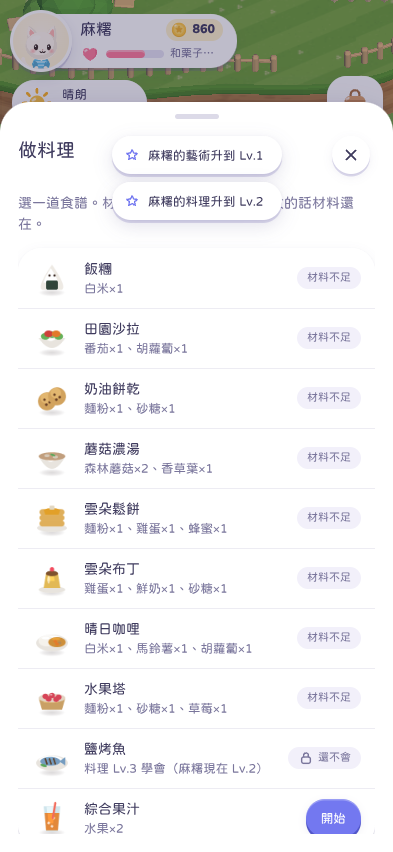
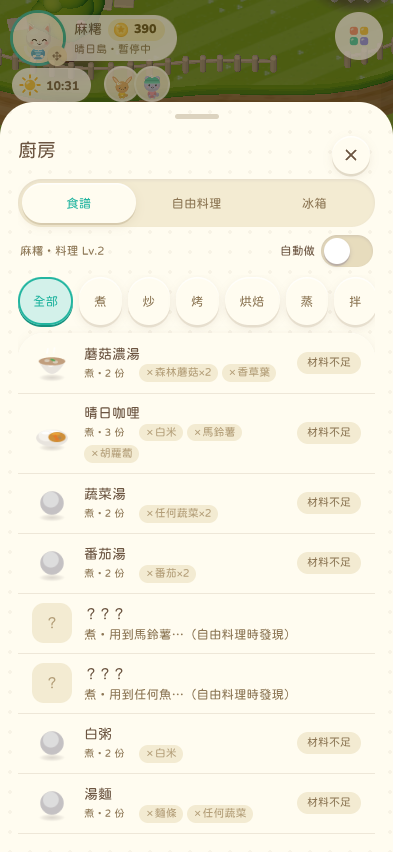
16.5: fix day-summary crash on lazily registered social kinds, recipe level hint, regression fixes, report, APK
Claude-Session: https://claude.ai/code/session_01PAZxUZ1nduqVoNWZ69f7R7

diff --git a/game/tests/life/run.js b/game/tests/life/run.js
@@ -91,6 +91,12 @@ const setHour = (page, h) => page.evaluate((hh) => { const c = OC.Store.s.life.c
       await page.evaluate(([a, b]) => { for (const id of [a, b]) { const br = OC.Brain.get(id); if (br.st === 'social') OC.Brain.Social.end(br.conv || OC.Brain.convs.find((x) => x.a === br || x.b === br), 't'); if (br.st === 'do' || br.st === 'go') OC.Brain.abort(br, 'test'); br.st = 'think'; br.thinkAt = 1e9; } OC.Chars.get(b).personality.social = 90; OC.Brain.Social.start(OC.Brain.get(a), OC.Brain.get(b), 'chat'); }, [A, B]);
       const startDiag = await page.evaluate(([a, b]) => [a, b].map((id) => { const x = OC.Brain.get(id); return `${OC.Chars.name(OC.Chars.get(id))}:st=${x.st} holds=${[...x.holds]} q=${x.queued} lv=${!!x.leaving} inv=${!!x.invited} bp=${!!x.byPlayer} conv=${OC.Brain.convs.length}`; }).join(' ; '), [A, B]);
       const talked = await until(page, ([a]) => !OC.Brain.convs.some((c) => c.a.id === a), [A], 40000);
+      /* 16.5: the answer to an invitation is a seeded roll (Will) — a "no" is a valid outcome, so ask again (up to 5 times) instead of depending on how many random draws came before */
+      for (let t = 0; t < 4; t++) {
+        const ok = await page.evaluate(([a, b, f0]) => OC.Mind.rel(a, b).fam > f0, [A, B, pre.r.fam]); if (ok) break;
+        await page.evaluate(([a, b]) => { for (const id of [a, b]) { const br = OC.Brain.get(id); if (br.st === 'social') OC.Brain.Social.end(br.conv || OC.Brain.convs.find((x) => x.a === br || x.b === br), 't'); if (br.st === 'do' || br.st === 'go') OC.Brain.abort(br, 'test'); br.st = 'think'; br.thinkAt = 1e9; } OC.Chars.get(a).life.laterWith = {}; OC.Brain.Social.start(OC.Brain.get(a), OC.Brain.get(b), 'chat'); }, [A, B]);
+        await until(page, ([a]) => !OC.Brain.convs.some((c) => c.a.id === a), [A], 40000);
+      }
       const post = await page.evaluate(([a, b]) => ({ r: OC.Mind.rel(a, b), rb: OC.Mind.rel(b, a), ma: OC.Mind.memories(OC.Chars.get(a), { who: b }).map((m) => m.text), mb: OC.Mind.memories(OC.Chars.get(b), { who: a }).map((m) => m.text) }), [A, B]);
       check('3a 兩個 OC 相遇並聊天（輪流說話、面對面）', talked && post.r.fam > pre.r.fam, `fam ${pre.r.fam} → ${post.r.fam}` + (post.r.fam > pre.r.fam ? '' : ' ｜ ' + startDiag + ' ｜ ' + await page.evaluate(([a, b]) => OC.Brain.log.filter((l) => l.who === a || l.who === b).slice(0, 10).map((l) => OC.Chars.name(OC.Chars.get(l.who)) + ':' + l.text).join(' / '), [A, B])));
       check('3b 雙方都留下共同回憶', post.ma.length > 0 && post.mb.length > 0, { a: post.ma.slice(0, 2), b: post.mb.slice(0, 2) });

diff --git a/game/tests/v16/run.js b/game/tests/v16/run.js
@@ -455,7 +455,7 @@ const BIG = `(async () => { const cv = document.createElement('canvas'); cv.widt
         const c = OC.Chars.get(id); c.needs.food = 97; Q.add(id, 'eat'); await sleep(1500); const ref = Q.list(id)[0]; out.refused = ref && ref.state + ':' + ref.why;
         Q.add(id, 'stretch'); const seen = new Set(); for (let i = 0; i < 40; i++) { for (const x of Q.list(id)) seen.add(x.act + ':' + x.state); const b0 = OC.Brain.get(id); if (b0.act === 'stretch') seen.add('stretch:' + b0.st); await sleep(100); } out.notBlocked = [...seen];
         Q.clear(id); Q.cancel(id, -1); OC.Chars.get(id).life.q16 = []; await sleep(300);
-        c.needs.food = 97; Q.add(id, 'eat'); await sleep(1200); const rf = Q.list(id).find((x) => x.state === 'refused'); out.forced = rf ? Q.force(id, rf.n) : false; await sleep(2500); const b = OC.Brain.get(id); out.forcedAct = b.act + ':' + b.st;
+        c.needs.food = 97; Q.add(id, 'eat'); let rf = null; for (let i = 0; i < 40 && !rf; i++) { if (OC.Events.current) OC.Events.end('t'); OC.Store.s.life.ev.lastAny = Date.now() + 3.6e6; await sleep(100); rf = Q.list(id).find((x) => x.state === 'refused'); }   /* an event that starts here makes the list wait (not refuse) — keep events out of this step */ out.forced = rf ? Q.force(id, rf.n) : false; const b = OC.Brain.get(id); { const seenF = []; for (let i = 0; i < 25; i++) { const s1 = b.act + ':' + b.st; if (!seenF.includes(s1)) seenF.push(s1); if (/^eat:(go|do)$/.test(s1)) break; await sleep(100); } out.forcedAct = seenF.find((x) => /^eat:(go|do)$/.test(x)) || seenF.join(','); }   /* 16.5: watch the whole window — a short meal (or an urgent need, brain.js「急需」) can end it before a single late look */
         Q.clear(id); Q.cancel(id, -1); OC.Chars.get(id).life.q16 = []; { const bq = OC.Brain.get(id); bq.queued = null; if (bq.st === 'do') OC.Brain.finish(bq, 't'); else if (bq.st === 'go') OC.Brain.abort(bq, 't'); } await sleep(300);
         /* this bench, not any bench */
         const benches = OC.Brain.aff.filter((o) => o.kind === 'bench'); const far = benches.sort((a, b2) => Math.hypot(b2.x - OC.App.player.x, b2.y - OC.App.player.y) - Math.hypot(a.x - OC.App.player.x, a.y - OC.App.player.y))[0];

diff --git a/game/tests/play/run.js b/game/tests/play/run.js
@@ -119,7 +119,9 @@ const release = (page, list) => page.evaluate((L) => { for (const id of L) { con
       check('3b 料理升級解鎖新食譜（Lv.1 鬆餅布丁、Lv.2 咖哩水果塔）', !r.recipe0 && r.recipe1 && r.recipe2 && r.cookLv === 2, JSON.stringify(r));
       await page.evaluate(() => OC.Mini.cooking()); await wait(page, 600);
       const rows = await page.evaluate(() => [...document.querySelectorAll('.sheet.open .row')].map((x) => x.textContent));
-      check('3c 料理清單：學會的可以做，還沒學會的明確顯示「還不會」與需要的等級', rows.some((t) => t.includes('咖哩') && !t.includes('還不會')) && rows.some((t) => t.includes('烤魚') && t.includes('還不會')), rows.filter((t) => /咖哩|烤魚/.test(t)).join(' | '));
+      /* 16.5：廚房改成食譜書——還沒到等級的食譜顯示鎖頭與需要的等級（Lv.N），鹽烤魚改成 Lv.1 */
+      const lockedRows = rows.filter((t) => /Lv\.([3-9]|\d\d)/.test(t) && (/？？？|起/.test(t) || !/做$/.test(t)));
+      check('3c 料理清單：學會的可以做，還沒學會的明確顯示鎖住與需要的等級', rows.some((t) => t.includes('咖哩') && !/Lv\.\d/.test(t)) && lockedRows.length > 0, rows.filter((t) => /咖哩/.test(t)).concat(lockedRows.slice(0, 2)).join(' | '));
       await shot(page, '3-recipes'); await page.evaluate(() => OC.UI.back()); await wait(page, 300);
       // an OC really does the new activity on its own once allowed (scenic spot verb 'observe')
       const k2 = I['栗子']; await gather(page, [k2]);

diff --git a/game/js/ui/cook16.js b/game/js/ui/cook16.js
@@ -32,7 +32,7 @@
           const state = F().state(r.id), locked = r.lv > lv, bk = F().book()[r.id] || {};
           const need = Object.entries(r.need).map(([k, n]) => h('span.k16-need' + (haveFor(k, n) ? '.ok' : '.no'), null, (haveFor(k, n) ? '✓' : '✗') + needZh(k, n)));
           const ing = !locked && state !== 'unknown' ? F().pick(r) : null;
-          if (state === 'unknown') { rows.append(OC.UI.row(h('span.k16-q', null, '？'), '？？？', `${F().METHODS[r.method][0]}・用到${needZh(Object.keys(r.need)[0], 1)}…（自由料理時發現）`, null)); continue; }
+          if (state === 'unknown') { rows.append(OC.UI.row(h('span.k16-q', null, '？'), '？？？', `${F().METHODS[r.method][0]}・用到${needZh(Object.keys(r.need)[0], 1)}…（自由料理時發現${r.lv > lv ? '・料理 Lv.' + r.lv + ' 起' : ''}）`, null)); continue; }
           rows.append(OC.UI.row(img(r.id), `${r.zh}${bk.best ? ' ' + '★'.repeat(bk.best) : ''}`, h('span.k16-needs', null, h('small', null, `${F().METHODS[r.method][0]}・${r.serv} 份　`), ...need),
             locked ? h('span.tag', null, icon('lock', 's'), `Lv.${r.lv}`) : ing ? h('button.btn.s.primary', { 'data-cook': r.id, on: { click: () => { api.close(); start(c, { recipe: r.id }); } } }, '做') : h('span.tag', null, '材料不足')));
         }

diff --git a/game/js/life/mind11.js b/game/js/life/mind11.js
@@ -222,7 +222,7 @@
   function onDay() {
     for (const c of Ch().all()) {
       const k = st(c), T = k.today, acts = Object.entries(T.acts).sort((a, b) => b[1] - a[1]).slice(0, 2).map(([a]) => D().ACTS[a] && D().ACTS[a].zh).filter(Boolean);
-      const bits = []; if (acts.length) bits.push(acts.join('、')); const soc = T.social.filter((s) => s.kind !== 'greet'); if (soc.length) { const o = Ch().get(soc[soc.length - 1].other); if (o) bits.push(`和${nm(o)}${D().SOCIAL[soc[soc.length - 1].kind].zh}`); }
+      const bits = []; if (acts.length) bits.push(acts.join('、')); const soc = T.social.filter((s) => s.kind !== 'greet'); if (soc.length) { const o = Ch().get(soc[soc.length - 1].other); if (o) bits.push(`和${nm(o)}${(D().SOCIAL[soc[soc.length - 1].kind] || {}).zh || '待在一起'}`); }
       const pl = T.plans.filter((p) => p.ok).map((p) => `完成了「${p.zh}」`); if (pl.length) bits.push(pl[0]); if (T.goals.length) bits.push(`做到了「${T.goals[0].replace('{other}', '')}」`);
       if (bits.length >= 2) M().remember(c, { type: 'activity', imp: 0.25, text: '昨天：' + bits.join('，') + '。', key: 'diary:' + (Sim().day() - 1) });
       k.today = { acts: {}, plans: [], goals: [], social: [] };

diff --git a/docs/v16.5-report.md b/docs/v16.5-report.md
@@ -36,9 +36,26 @@
 
 `node game/tests/v16/run.js 26 27 28 29 30`。
 
-## 回歸
+## 回歸（快照 `edf5972`、單一執行器）
 
-（見下方）
+| 套件 | 結果 | 說明 |
+|---|---|---|
+| v16 | 66/70 | **找到一個真的錯誤**：每天結算「今天的摘要」時，如果角色今天做過「一起做某件事」（`with_<活動>`，16.2 起由意願模型在第一次用到時才登記），重開遊戲後那個種類還沒登記，讀名稱就丟出例外（`mind11.js` 的 `onDay`）→ 改成找不到名稱時寫「待在一起」。29a 的回憶因此恢復正常。22b：一次是剛好有事件開始（清單在等、不是拒絕，所以沒有東西可以強迫），一次是強迫的「吃」很快就結束了、測試只看最後一刻 → 測試改成整段時間都看、這一步擋住事件；22c 同一次執行受影響。修正後單獨重跑 22 共 7 次（6 次通過＋修正前 1 次）、26–30 全部通過 |
+| v15 | 51/51 | |
+| v14 | 23/23 | |
+| v13 | 36/36 | |
+| v12 | 44/45 | 10a（過場短句）單獨重跑 3/3 |
+| v11 | 41/41 | |
+| v10 | 9/9 | |
+| v8 | 46/46 | |
+| pet | 66/66 | |
+| play | 66/67 | 3c 測的是舊料理清單上的「還不會」字樣與「鹽烤魚要 Lv.3」；16.5 的食譜書把鹽烤魚改成 Lv.1（刻意），鎖住的食譜用鎖頭＋等級。順便補上：還沒發現的「？？？」食譜也寫出需要的等級（「料理 Lv.3 起」）。測試改成檢查鎖住的列，重跑通過 |
+| world | 74/74 | |
+| life | 50/52 | 3a／3b：小空拒絕了聊天邀請（意願模型用固定種子的亂數決定，16.5 改變了之前抽亂數的次數）——拒絕是合法的結果（好感 −1、沒有回憶），遊戲沒錯；測試改成最多問 5 次，單獨重跑 4/4 |
+
+## APK
+
+`deliverables/apk/oc-shimeji-0.16.5-alpha-debug.apk`（versionCode 33、targetSdk 35、Debug 簽章，**不是正式發行版**），sha256 `29522dc3…90a4`，`verifyDebugApk` 通過。回歸找到的 `mind11` 錯誤修正後**重新建置**（取代回歸前的 `35fe5014…f6a0`），也包含 16.4 的 `queuedPt` 修正。**手機上沒有安裝驗證過。**
 
 ## 未完成／未驗證（誠實標示）
 

diff --git a/README.md b/README.md
@@ -2,9 +2,10 @@
 
 > 我的 OC，住進你的手機。—— 原創角色生活模擬 × Android 懸浮桌寵（3D 固定視角世界 × 2D 角色）
 
-## 目前版本 0.16.4-alpha（16.4：互動選單＋動作清單）
+## 目前版本 0.16.5-alpha（16.5：飲食與烹飪）
 
-- **可安裝 APK（Debug 簽章，非正式發行版）**：[`deliverables/apk/oc-shimeji-0.16.4-alpha-debug.apk`](deliverables/apk/oc-shimeji-0.16.4-alpha-debug.apk)
+- **可安裝 APK（Debug 簽章，非正式發行版）**：[`deliverables/apk/oc-shimeji-0.16.5-alpha-debug.apk`](deliverables/apk/oc-shimeji-0.16.5-alpha-debug.apk)
+- 16.5：飲食與烹飪全面升級——食材分類、10 種新食材、80 個食譜、七種做法、品質 ★1–★3、自由料理與發現、食譜書、自動做、冷熱與物種口味、端上桌與剩菜、角色自己下廚、咖啡館點餐；廚房介面（食譜／自由料理／冰箱）。紀錄：[`docs/v16.5-report.md`](docs/v16.5-report.md)
 - 16.4：點角色、家具、地面的選單重做——一層分類、一層項目，一按就做（可復原、長按立刻做），不跳確認；動作清單照《模擬市民》的方式重寫（帶目標、8 個、拖曳排序、循環、進度、不想做會說原因＋強迫、跨地點）；11 個新活動。紀錄：[`docs/v16.4-report.md`](docs/v16.4-report.md)
 - 16.3：角色工作室（舞台固定只捲面板、圖片模式的取景台與去背、動畫來源＋一鍵全選、角色台詞、專屬互動、可匯入的事件腳本）。紀錄：[`docs/v16.3-report.md`](docs/v16.3-report.md)
 - 16.2：沒有門檻、都能做——60 種角色之間的互動（12 類），對方依關係、親近程度、個性、心情決定怎麼反應（熱情、害羞閃躲、婉拒、推開、哭了…），太突然會降好感；點別的角色就有互動選單；設施可以邀請別人一起用。紀錄：[`docs/v16.2-report.md`](docs/v16.2-report.md)。
